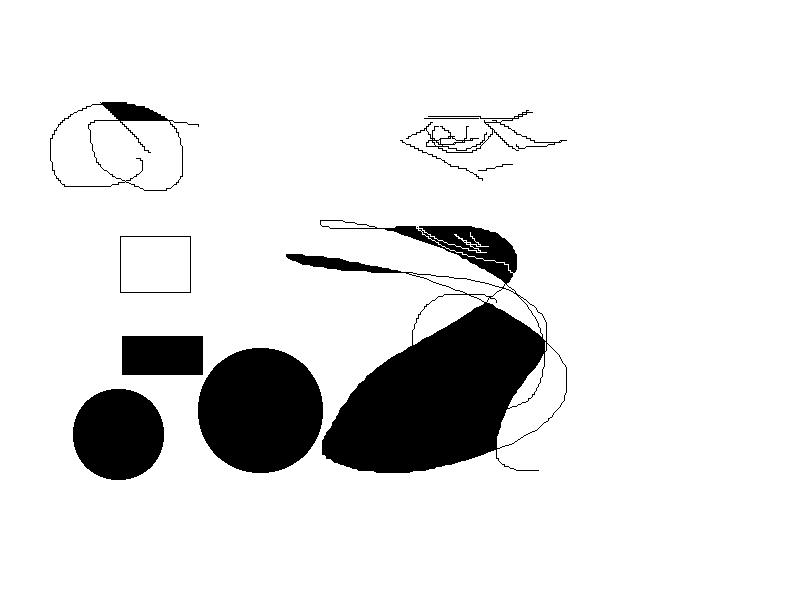
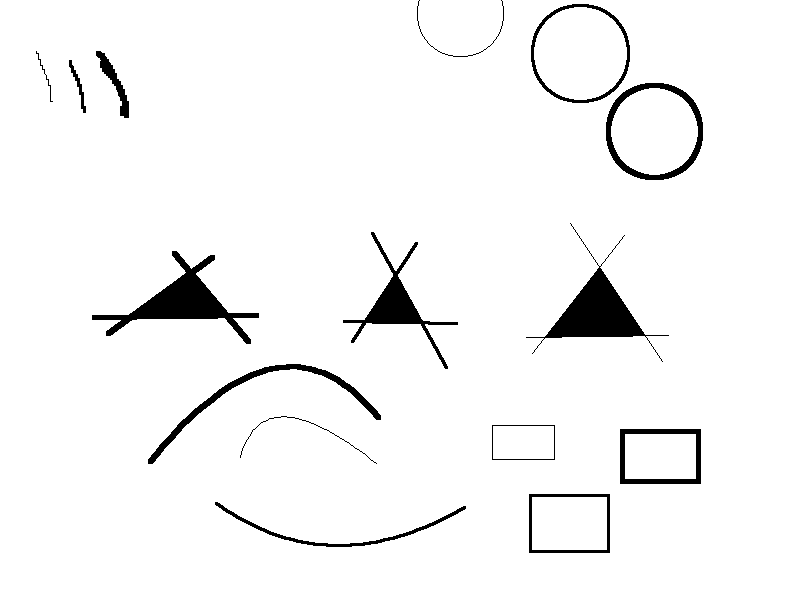
Feature de espessura adicionado

diff --git a/src/core/canvas.py b/src/core/canvas.py
@@ -5,11 +5,12 @@ import numpy as np
 # Arquivo para gerenciar qualquer operação no canvas (desenhar pixels, pegar pixels, limpar canvas)
 
 class Canvas:
-    def __init__(self, largura, altura, cor_fundo, formato_janela):
+    def __init__(self, largura, altura, cor_fundo, formato_janela, espessura=1):
         self.largura = largura
         self.altura = altura
         self.cor_fundo = cor_fundo
         self.formato_janela = formato_janela
+        self.espessura = espessura # (1, 3 ou 5)
         self.topo_esquerdo = self.encontrar_topo_esquerdo()
         self.matriz_pixels = np.zeros((self.altura, self.largura, 3), dtype=np.uint8) + self.cor_fundo # canvas da cor de fundo
 
@@ -36,16 +37,21 @@ class Canvas:
         return None
 
     # muda a cor de um pixel numa posicao do canva
-    def put_pixel(self, mouse_x, mouse_y, cor):
-        if self.esta_dentro(mouse_x, mouse_y):
-            x, y = self.corrigir_mouse(mouse_x, mouse_y)
-            self.matriz_pixels[y][x] = cor
+    def put_pixel(self, mouse_x, mouse_y, cor, usar_espessura=True):
+        raio = (self.espessura // 2) if usar_espessura else 0
+
+        for dy in range(-raio, raio + 1):
+            for dx in range(-raio, raio + 1):
+                px, py = mouse_x + dx, mouse_y + dy
+                if self.esta_dentro(px, py):
+                    x, y = self.corrigir_mouse(px, py)
+                    self.matriz_pixels[y][x] = cor
 
     # muda a cor de pixels sem armazenar no canva
-    def desenhar_pixels(self, pontos, cor):
+    def desenhar_pixels(self, pontos, cor, usar_espessura=True):
         #Aceita de 0 a 255, não precisa fazer cor[0]/cor[255] etc.
         glColor3ub(*cor)
-        glPointSize(1.0)
+        glPointSize(float(self.espessura if usar_espessura else 1))
         glBegin(GL_POINTS)
 
         for ponto in pontos:

diff --git a/src/ferramentas/retangulo_cheio.py b/src/ferramentas/retangulo_cheio.py
@@ -23,7 +23,7 @@ class RetanguloCheio(Ferramenta):
     def soltar_esquerdo(self, mouse_x, mouse_y):
         # salva o retangulo na matriz do canvas
         for ponto in self.rasterizada:
-            self.canvas.put_pixel(ponto[0], ponto[1], self.cor)
+            self.canvas.put_pixel(ponto[0], ponto[1], self.cor, usar_espessura=False)
 
         self.ponto_inicial = None
         self.ponto_final = None
@@ -42,5 +42,5 @@ class RetanguloCheio(Ferramenta):
 
     def desenhar_previa(self):
         if self.rasterizada: # se temos uma previa da linha
-            self.canvas.desenhar_pixels(self.rasterizada, self.cor) # desenha o retangulo (sem salvar na matriz do canvas)
+            self.canvas.desenhar_pixels(self.rasterizada, self.cor, usar_espessura=False) # desenha o retangulo (sem salvar na matriz do canvas)
 

diff --git a/src/ferramentas/circulo_cheio.py b/src/ferramentas/circulo_cheio.py
@@ -29,7 +29,7 @@ class CirculoCheio(Ferramenta):
     def soltar_esquerdo(self, mouse_x, mouse_y):
         # salva a linha na matriz do canvas
         for ponto in self.rasterizada:
-            self.canvas.put_pixel(ponto[0], ponto[1], self.cor)
+            self.canvas.put_pixel(ponto[0], ponto[1], self.cor, usar_espessura=False)
 
         self.ponto_inicial = None
         self.ponto_final = None
@@ -48,6 +48,6 @@ class CirculoCheio(Ferramenta):
 
     def desenhar_previa(self):
         if self.rasterizada: # se temos uma previa do ponto
-            self.canvas.desenhar_pixels(self.rasterizada, self.cor) # desenha o círculo (sem salvar na matriz do canvas)
+            self.canvas.desenhar_pixels(self.rasterizada, self.cor, usar_espessura=False) # desenha o círculo (sem salvar na matriz do canvas)
 
     

diff --git a/src/utils/algoritmos.py b/src/utils/algoritmos.py
@@ -158,7 +158,7 @@ def flood_fill(canvas, x0, y0, cor, vizinhanca=4):
         
     # deque é igual a uma lista, mas o popleft() é instantâneo (não trava se pintar a tela toda)
     fila = deque([(x0, y0)])
-    canvas.put_pixel(x0, y0, cor)
+    canvas.put_pixel(x0, y0, cor, usar_espessura=False)
 
     while len(fila) > 0:
         x, y = fila.popleft()
@@ -171,6 +171,6 @@ def flood_fill(canvas, x0, y0, cor, vizinhanca=4):
             
             # Se cor vizinha é 'real' e está na cor alvo, pinta ela
             if cor_vizinha is not None and np.array_equal(cor_vizinha, cor_alvo):
-                canvas.put_pixel(novo_x, novo_y, cor)
+                canvas.put_pixel(novo_x, novo_y, cor, usar_espessura=False)
                 fila.append((novo_x, novo_y))
 

diff --git a/src/main.py b/src/main.py
@@ -76,6 +76,15 @@ def main():
                 elif tecla == glfw.KEY_9:
                     modo_atual = ModoFerramenta.BALDE
                     ferramenta_atual = ferramentas_disponiveis[modo_atual]
+                elif tecla == glfw.KEY_P:
+                    canvas.espessura = Espessura.FINO
+                    print("Espessura: Fino (1px)")
+                elif tecla == glfw.KEY_M:
+                    canvas.espessura = Espessura.MEDIO
+                    print("Espessura: Médio (3px)")
+                elif tecla == glfw.KEY_G:
+                    canvas.espessura = Espessura.GROSSO
+                    print("Espessura: Grosso (5px)")
 
 
     # PROGRAMA

diff --git a/src/constantes.py b/src/constantes.py
@@ -23,3 +23,8 @@ class Paleta:
     AMARELO  = (255, 255, 0)
     CIANO    = (0, 255, 255)
     MAGENTA  = (255, 0, 255)
+
+class Espessura:
+    FINO = 1    # 1x1 pixel
+    MEDIO = 3   # 3x3 pixels (raio = 1 ao redor do centro)
+    GROSSO = 5  # 5x5 pixels (raio = 2 ao redor do centro)
